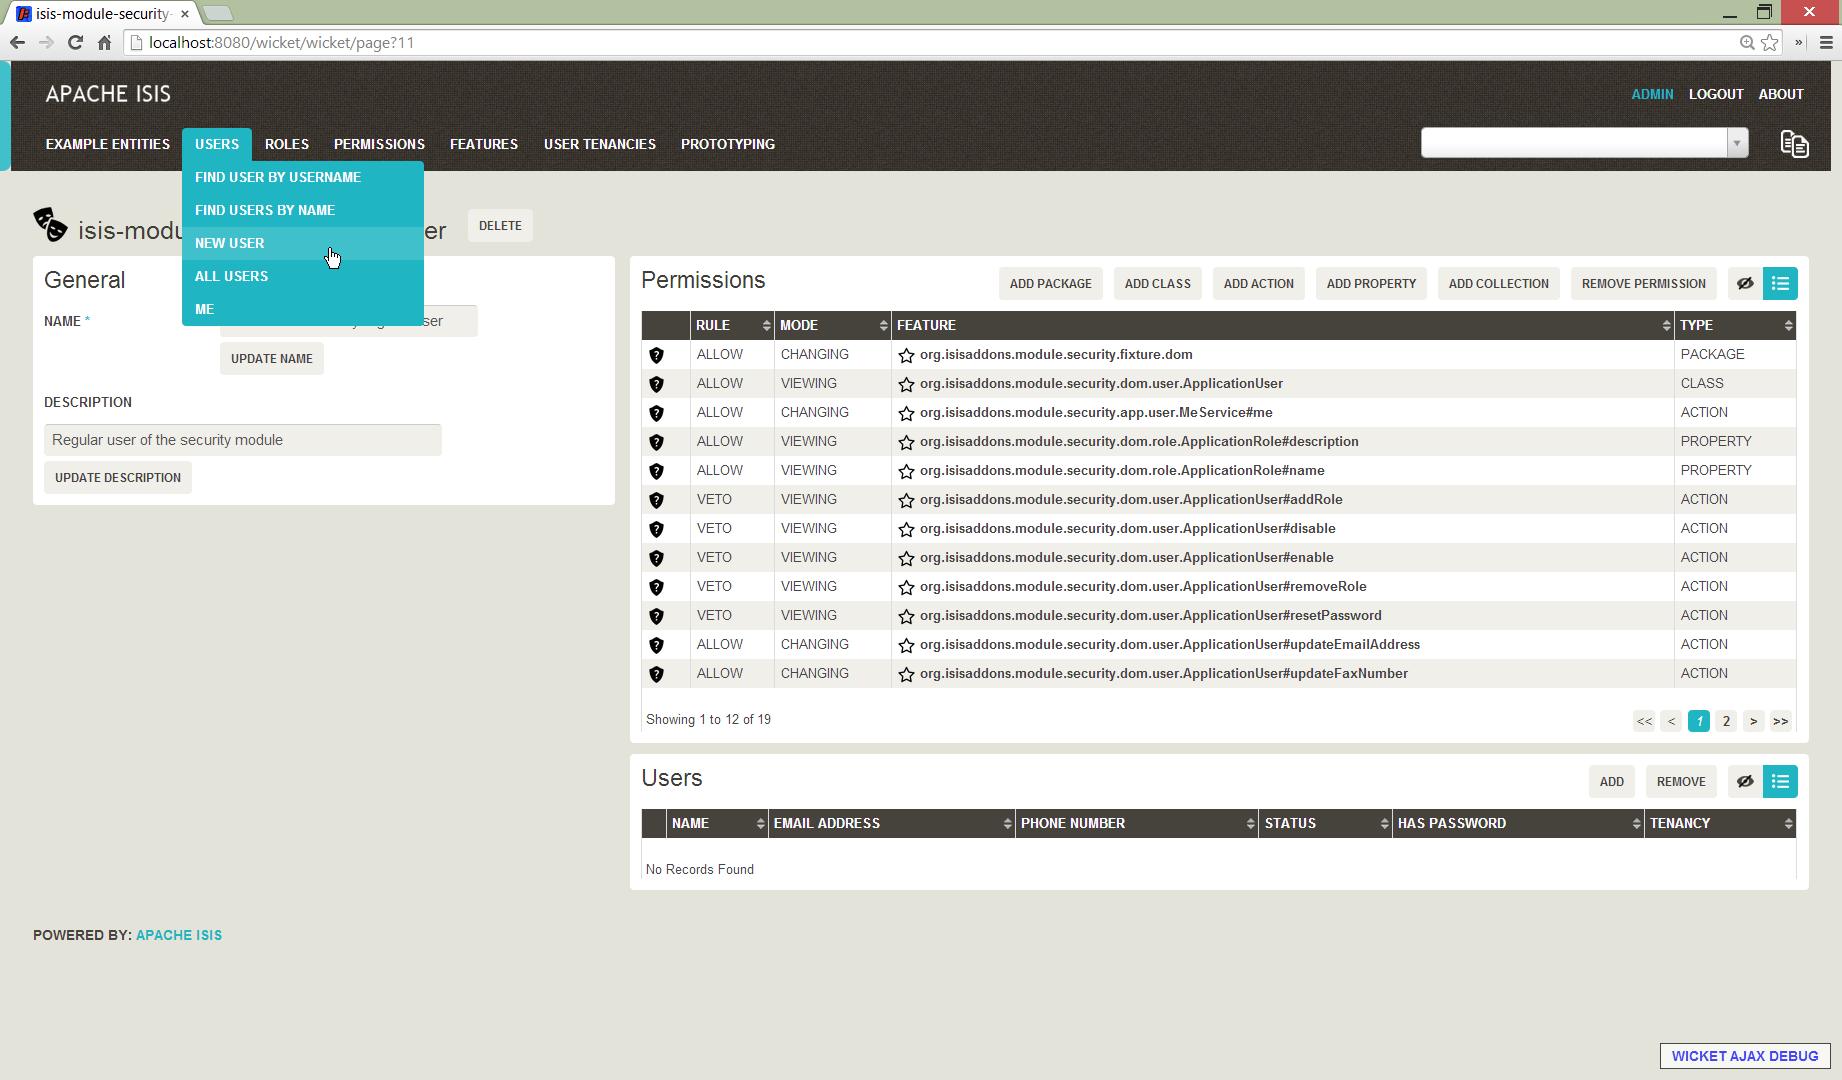
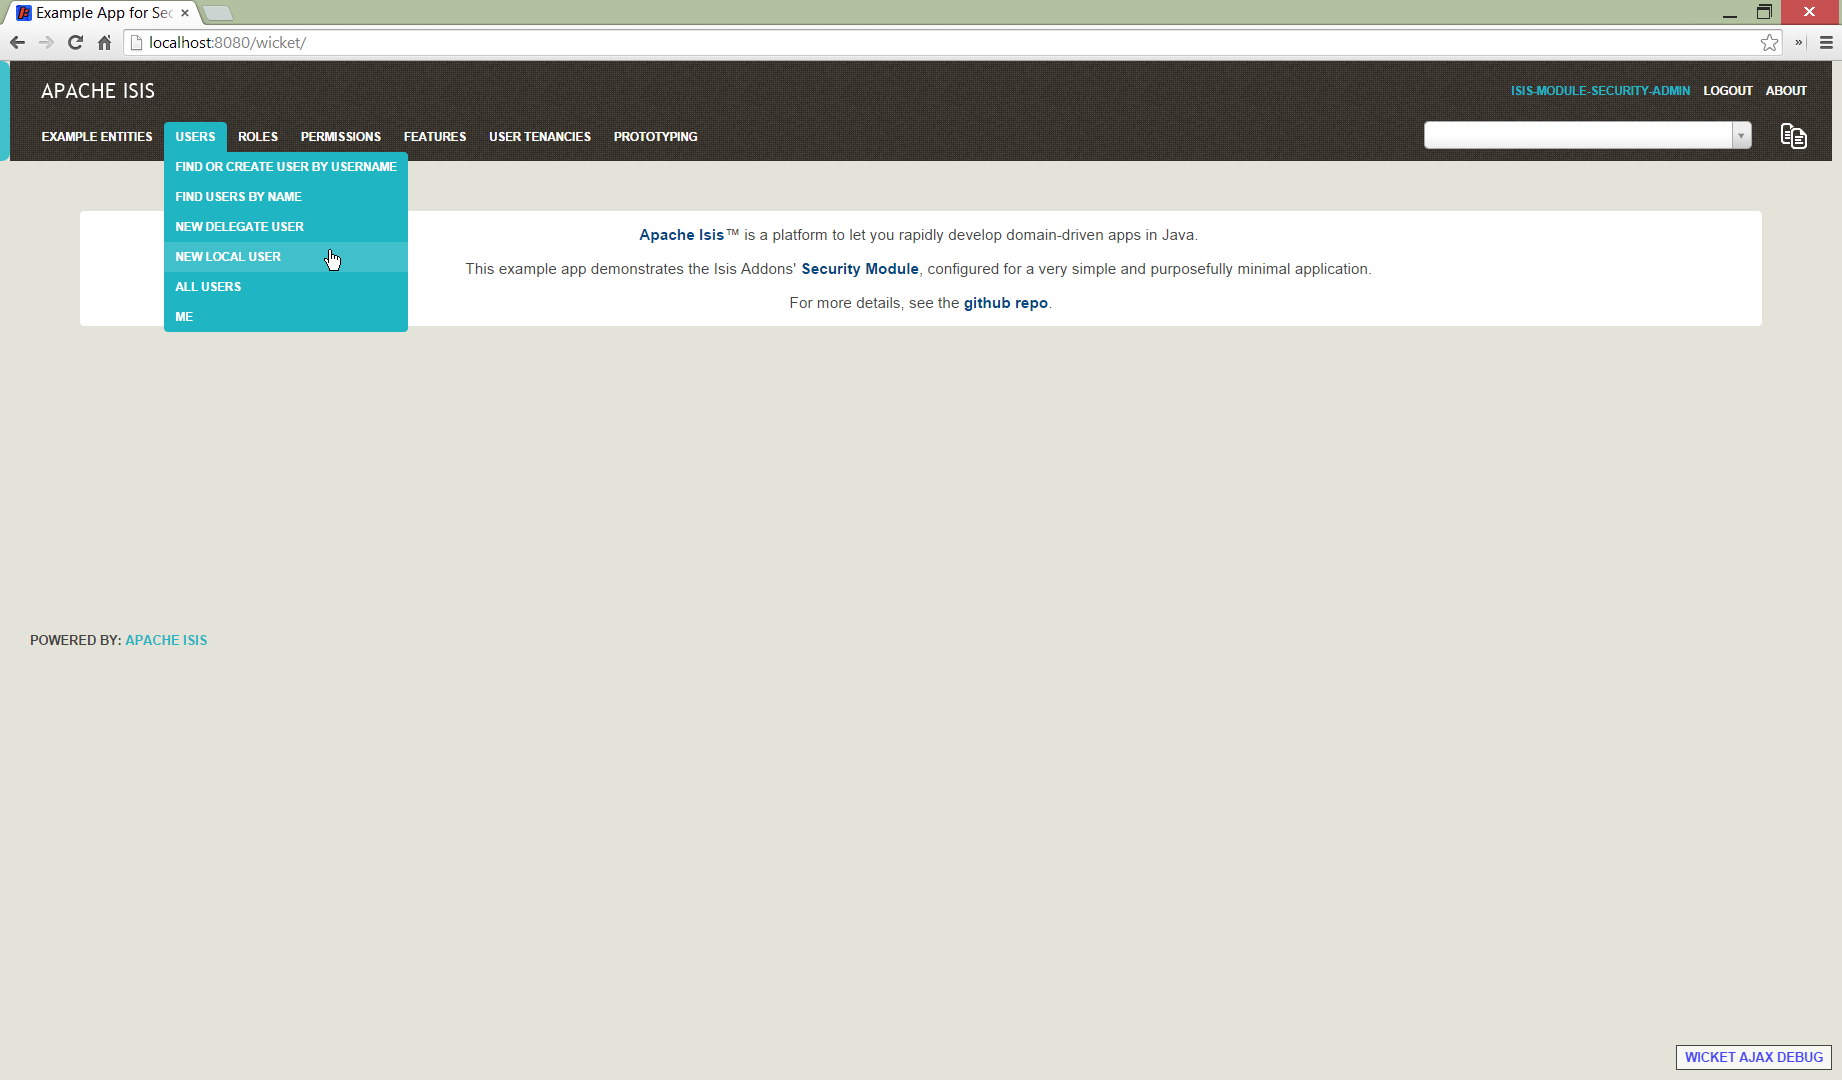
Updating README and domain model for account types.

diff --git a/webapp/src/main/webapp/css/application.css b/webapp/src/main/webapp/css/application.css
@@ -93,6 +93,7 @@ patches
 }
 
 
-.example-app-for-security .entityActions .cssMenuPanel a.ApplicationUser-delete {
+.example-app-for-security .entityActions .cssMenuPanel a.ApplicationUser-delete,
+.example-app-for-security .entityActions .cssMenuPanel a.ApplicationRole-delete {
     background-color: rgb(237, 107, 107);
 }

diff --git a/dom/src/main/java/org/isisaddons/module/security/dom/user/ApplicationUsers.java b/dom/src/main/java/org/isisaddons/module/security/dom/user/ApplicationUsers.java
@@ -110,7 +110,7 @@ public class ApplicationUsers extends AbstractFactoryAndRepository {
         if(initialRole != null) {
             user.addRole(initialRole);
         }
-        persist(user);
+        persistIfNotAlready(user);
         return user;
     }
 
@@ -150,7 +150,7 @@ public class ApplicationUsers extends AbstractFactoryAndRepository {
         if(password != null) {
             user.updatePassword(password.getPassword());
         }
-        persist(user);
+        persistIfNotAlready(user);
         return user;
     }
     public String validateNewLocalUser(

diff --git a/README.md b/README.md
@@ -7,7 +7,7 @@ and *permission*s.  Users have roles, roles have permissions, and permissions ar
 These features are derived from the Isis metamodel and can be scoped at either a _package_, _class_ or individual _class member_.
 Permissions themselves can either _allow_ or _veto_ the ability to _view_ or _change_ any application feature.
 
-A key design objective of this module has been to limit the amount of permissioning data required.  To this objective:
+A key design objective of this module has been to limit the amount of permissioning data required.  To support this objective:
 
 * permissions are hierarchical: a class-level permission applies to all class members, while a package-level permission 
   applies to all classes of all subpackages
@@ -22,9 +22,17 @@ A key design objective of this module has been to limit the amount of permission
   
 The module also provides an implementation of [Apache Shiro](http://shiro.apache.org)'s 
 [AuthorizingRealm](https://shiro.apache.org/static/1.2.2/apidocs/org/apache/shiro/realm/AuthorizingRealm.html).  This 
-allows the users/permissions to be used for Isis' authentication and/or authorization.  If using for authentication,
-passwords are encrypted using a `PasswordEncryptionService`.  The module provides a default implementation based on
-[jBCrypt](http://www.mindrot.org/projects/jBCrypt/), but other implementations can be plugged-in if required.
+allows the users/permissions to be used for Isis' authentication and/or authorization.
+
+Authentication is optional; each user is either _local_ or _delegated_:
+
+* users with a _delegated_ account type are authenticated through a (configured) _delegated authentication realm_ (for 
+  example LDAP).  Any other implementation of Shiro's `AuthenticatingRealm` can be used.
+ 
+* users with a _local_ account type are authenticated through a `PasswordEncryptionService`.
+
+The module provides a default implementation based on [jBCrypt](http://www.mindrot.org/projects/jBCrypt/), but other 
+implementations can be plugged-in if required.
   
 ## Domain Model ##
 
@@ -43,12 +51,14 @@ For further screenshots, see the [screenshot tutorial](https://github.com/isisad
 
 #### Automatically Seeds Roles ####
 
-When the security module starts up, it will automatically seed a number of roles, corresponding permissions and a 
-default 'admin' user.  The `isis-module-security-admin` role grants all permissions to all classes in the security module itself:
+When the security module starts up, it will automatically (idempotently) seed a number of roles, corresponding permissions and a 
+default `isis-module-security-admin` user.  The corresponding (similarly named) `isis-module-security-admin` role 
+grants all permissions to all classes in the security module itself:
 
 ![](https://raw.github.com/isisaddons/isis-module-security/master/images/030-role.png)
 
-The `isis-module-security-regular-user` role grants selected permissions to the `ApplicationUser` class:
+The `isis-module-security-regular-user` role grants selected permissions to viewing/changing members of the 
+`ApplicationUser` class (so that a user with this role can view/update their own record):
 
 ![](https://raw.github.com/isisaddons/isis-module-security/master/images/035-role-regular-user.png)
 
@@ -128,11 +138,14 @@ provides access to its parent (package) feature.
 
 #### Application users ####
 
-The security module can be defined either as a primary Shiro realm (for both authentication and authorization) or a 
-secondary realm (for authorization only).
+Application users can have either a _local_ or a _delegated_ account type.  Local users are authenticated and authorized
+through the module's Shiro realm implementation.  Optionally a delegate authentication realm can be configured; if so 
+then delegated users can be created and their credentials will be authenticated by the delegate authentication realm.
 
-If configured as a primary realm, then the users must be created by the administrator.    If configured as a secondary
-realm, then the user is created automatically, sychronized with the primary realm.
+If configured _without_ a delegate realm, then the users must be created by the administrator.    If configured _with_
+a delegate realm, then the user will be created automatically if that user attempts to log on.  However, for safety 
+their `ApplicationUser` accounts are created in a disabled state and with no roles, so the administrator is still required
+to update them.
 
 Once the user is created, then additional information about that user can be captured, including their name and
 contact details.  This information is not otherwise used by the security module, but may be of use to other parts
@@ -156,17 +169,21 @@ You can either use this module "out-of-the-box", or you can fork this repo and e
 #### Shiro configuration (shiro.ini) ####
 
 The module includes `org.isisaddons.module.security.shiro.IsisModuleSecurityRealm`, an implementation of Apache Shiro's
- `org.apache.shiro.realm.AuthorizingRealm` class. As such, the module can be used to be used either as the single 
- (primary) realm or as a secondary realm.  
+`org.apache.shiro.realm.AuthorizingRealm` class.  This realm is intended to be configured as the single realm for Shiro,
+but it can optionally have a delegateAuthenticationRealm injected into it.
 
-* if configured as the primary realm then module handles both authentication and authorization.  Authentication is 
-  performed against encrypted password.
+* if configured without a delegate realm then `IsisModuleSecurityRealm` deals only with _local_ users and performs
+  both authentication and authorization for them.  Authentication is performed against encrypted password.  Users with
+  _delegate_ account type will be unable to log in.
 
-* if configured as the secondary realm then it primarily handles authorization.
+* if configured with a delegate realm then `IsisModuleSecurityRealm` deals with both _delegated_ and _local_ users.
+  Authentication of _delegated_ users is performed by the delegate authentication realm, while _local_ users continue
+  to be authenticated in the same way as before, against their encrypted password.  Authorization is performed the
+  same way for either account type, by reference to their user roles and those roles' permissions.
 
-In either configuration the module can also prevent a user logging on if that user's account has been disabled. 
+For both _local_ and _delegated_ users the realm will prevent a disabled user from logging in. 
 
-For both cases, update your `WEB-INF/shiro.ini`'s `[main]` section:
+To configure, update your `WEB-INF/shiro.ini`'s `[main]` section:
 
 <pre>
 [main]
@@ -176,24 +193,18 @@ isisModuleSecurityRealm=org.isisaddons.module.security.shiro.IsisModuleSecurityR
 authenticationStrategy=org.isisaddons.module.security.shiro.AuthenticationStrategyForIsisModuleSecurityRealm
 securityManager.authenticator.authenticationStrategy = $authenticationStrategy
 
-</pre>
-
-The, set up Shiro`s `securityManager.realms` property.  To use the module as the primary realm (with passwords visible
-and verified), add (again, in the `[main]` section):
-
-<pre>
 securityManager.realms = $isisModuleSecurityRealm
 </pre>
 
-Or, to use the module as the secondary realm (without password support), add:
+If a delegate authentication realm is used, then define it and inject (again, in the `[main]` section):
 
 <pre>
-securityManager.realms = $someOtherRealm,$isisModuleSecurityRealm
+someOtherRealm=...
+
+isisModuleSecurityRealm.delegateAuthenticationRealm=$someOtherRealm
 </pre>
 
-
-where `$someOtherRealm` refers to the definition of the realm to perform primary authentication (eg `$iniRealm`, or an
-`$ldapRealm` implementation.
+where `$someOtherRealm` defines some other realm to perform authentication.
 
 
 #### Isis domain services (isis.properties) ####
@@ -479,10 +490,10 @@ and then push changes.
 [ApplicationUser|username{bg:green}]0..*->0..1[ApplicationTenancy|name{bg:blue}]
 [ApplicationUser]1-0..*>[ApplicationRole|name{bg:yellow}]
 [ApplicationRole]1-0..*>[ApplicationPermission]
+[ApplicationUser]->[AccountType|LOCAL;DELEGATED]
 [ApplicationFeature|fullyQualifiedName{bg:green}]-memberType>0..1[ApplicationMemberType|PROPERTY;COLLECTION;ACTION]
 [ApplicationFeature]->type[ApplicationFeatureType|PACKAGE;CLASS;MEMBER]
 [ApplicationPermission{bg:pink}]++->[ApplicationFeature]
 [ApplicationPermission]->[ApplicationPermissionMode|VIEWING;CHANGING]
-[ApplicationPermission]->[ApplicationPermissionRule|ALLOW;VETO]
-</pre>
+[ApplicationPermission]->[ApplicationPermissionRule|ALLOW;VETO]</pre>
 
